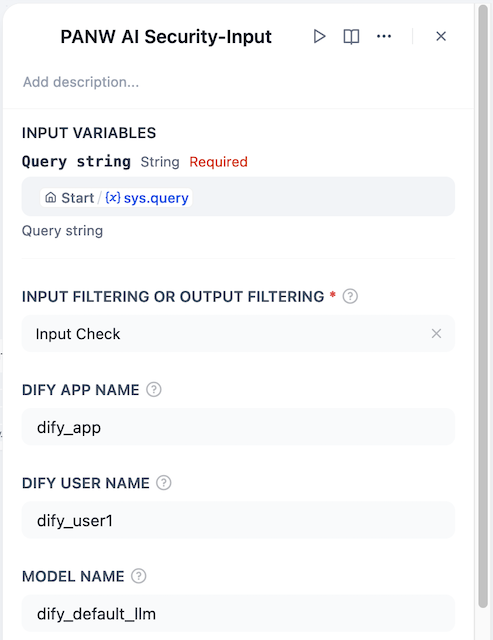
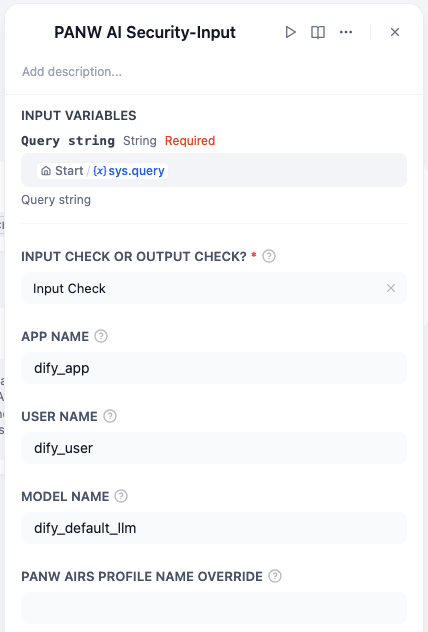
add Japanese and other small fixes

diff --git a/README.md b/README.md
@@ -38,6 +38,14 @@ The following is an example of calling the input side tool:
 
 ![img3](_assets/img3-en.png)
 
+The specific parameters are described as follows:
+
+- **Input Check or Output Check?** The PANW AIRS Prompt/Response identifier is used to distinguish whether the content to be checked belongs to input or output.
+- **App Name (Optional)**: The name of the Chatflow/Agent, used for logging purposes.
+- **User Name (Optional)**: The user identifier for the current application, used for logging purposes.
+- **Model Name (Optional)**: The name of the model used by the current application, used for logging purposes.
+- **PANW AIRS Profile Name Override (Optional)**: If you want to use a different Profile for this application, you can adjust it through this parameter. The default will use the globally configured Profile Name.
+
 The input judgment component is configured as follows:
 
 ![img4](_assets/img4-en.png)

diff --git a/README-CN.md b/README-CN.md
@@ -1,7 +1,9 @@
 ## PANW AI Security Tools for Dify
 
 **作者：** Matt Zhang
+
 **版本：** 0.0.1
+
 **类型:** tool
 
 ### 概述
@@ -37,6 +39,14 @@
 输入侧工具调用示例如下：
 
 <img src="_assets/img3.png" alt="img3" style="zoom:50%;" />
+
+具体参数说明如下：
+
+- 进行输入检查还是输出检查？：PANW AIRS Prompt/Response 标识符，用于区分待检测内容属于输入还是输出
+- 应用名称（可选）：该 Chatflow/Agent 的名称，用于日志记录
+- 用户名称（可选）：当前应用的用户标识，用于日志记录
+- 模型名称（可选）：当前应用所使用的模型名称，用于日志记录
+- 指定新的 PANW AIRS Profile Name（可选）：如果想针对该应用使用不同的 Profile，可以通过此参数来调整。默认将会使用全局配置的 Profile Name
 
 输入判断组件配置如下：
 
